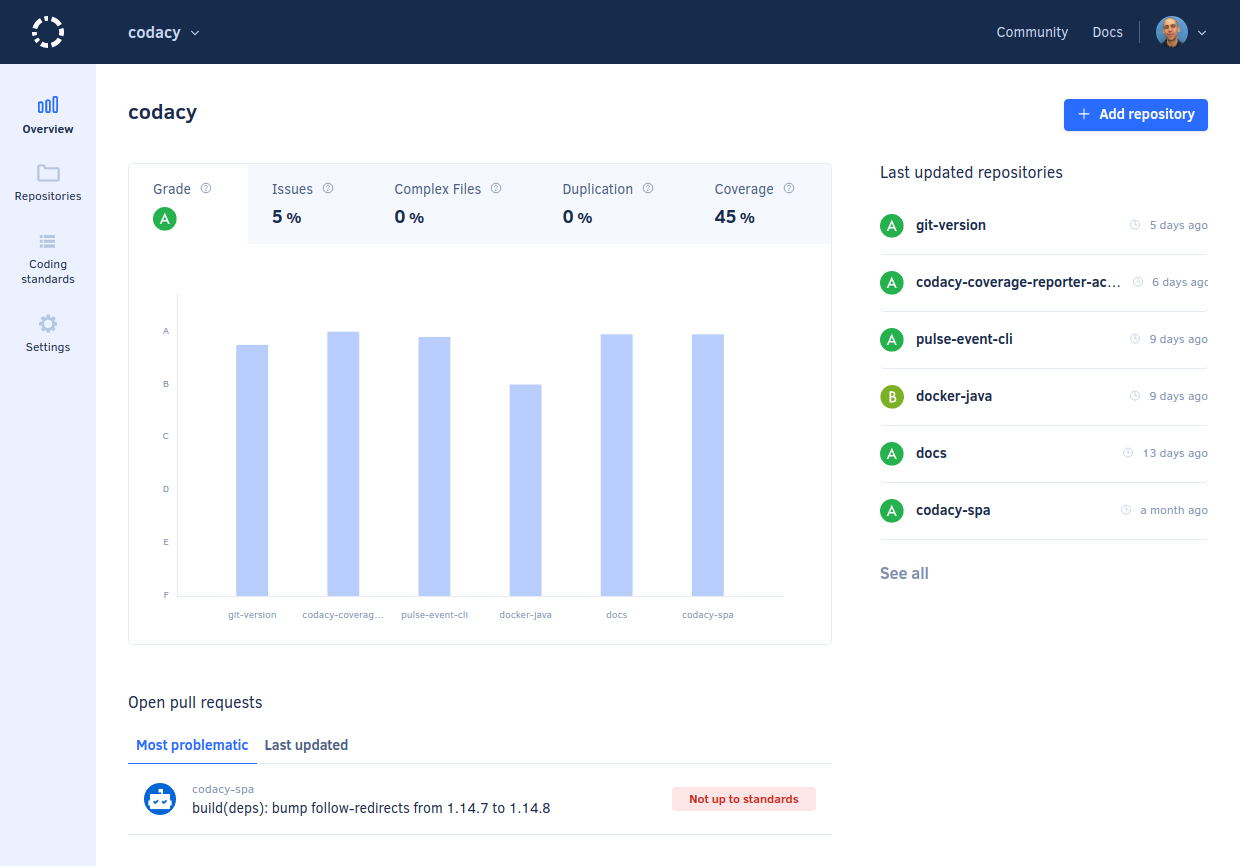
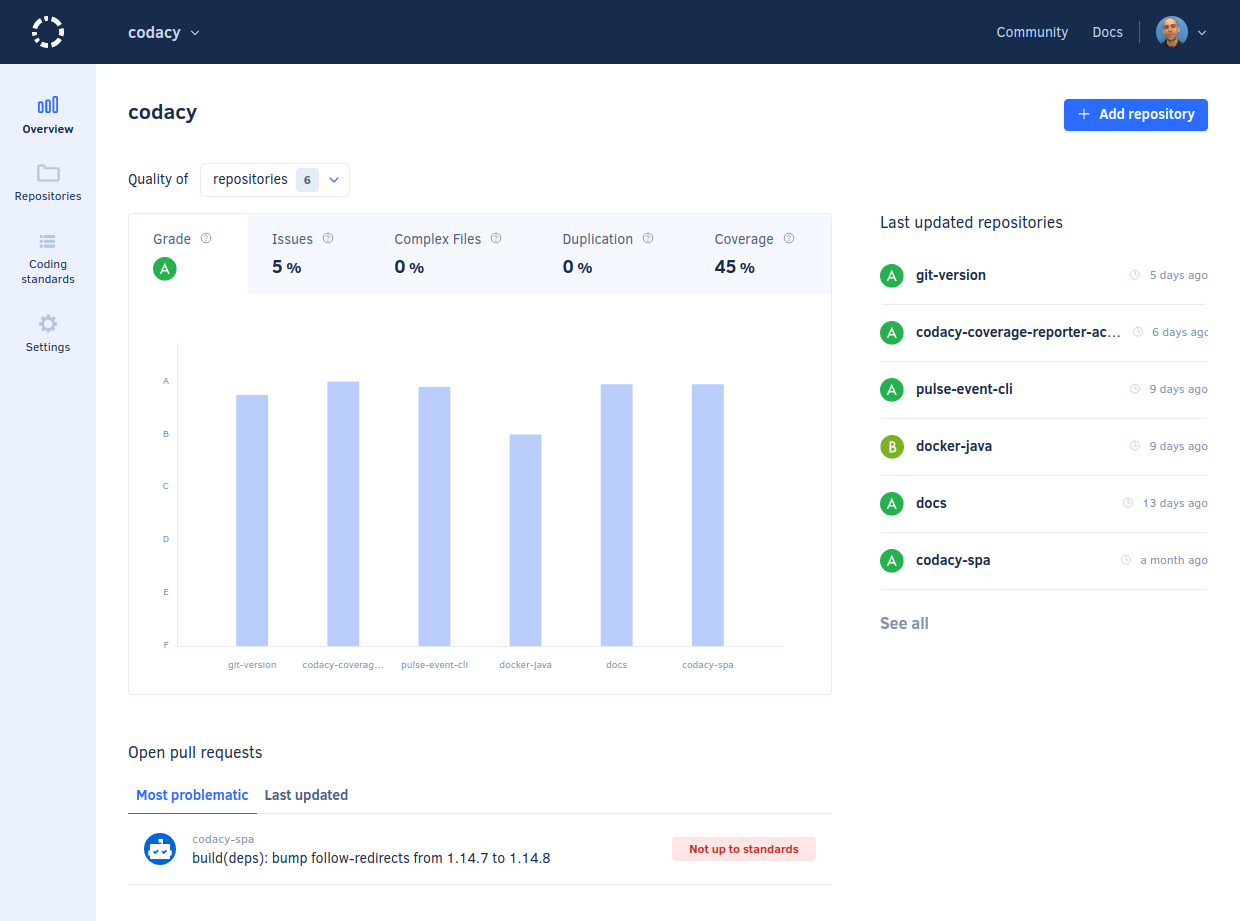
clean: Remove "feature flag" hiding filter on Self-hosted

diff --git a/docs/organizations/organization-overview.md b/docs/organizations/organization-overview.md
@@ -27,7 +27,6 @@ On the Organization Overview you have the following areas to help you monitor yo
 -   [Open pull requests](#open-pull-requests)
 -   [Last updated repositories](#last-updated-repositories)
 
-{% if not config.extra.self_hosted %}
 Use the drop-down list at the top of the page to filter the information displayed on all dashboard areas based on the repositories that you select. For example, you can use the filter to monitor the quality of the repositories maintained by specific teams or that include certain programming languages, or to ignore legacy repositories that are no longer maintained.
 
 !!! tip
@@ -35,10 +34,7 @@ Use the drop-down list at the top of the page to filter the information displaye
 
     ![Using the language filter to narrow down the list of repositories](images/organization-overview-filter-language-beta.png)
 
-![Organization Overview](images/organization-overview-beta.png)
-{% else %}
 ![Organization Overview](images/organization-overview.png)
-{% endif %}
 
 The following sections provide a detailed description of each dashboard area.
 
